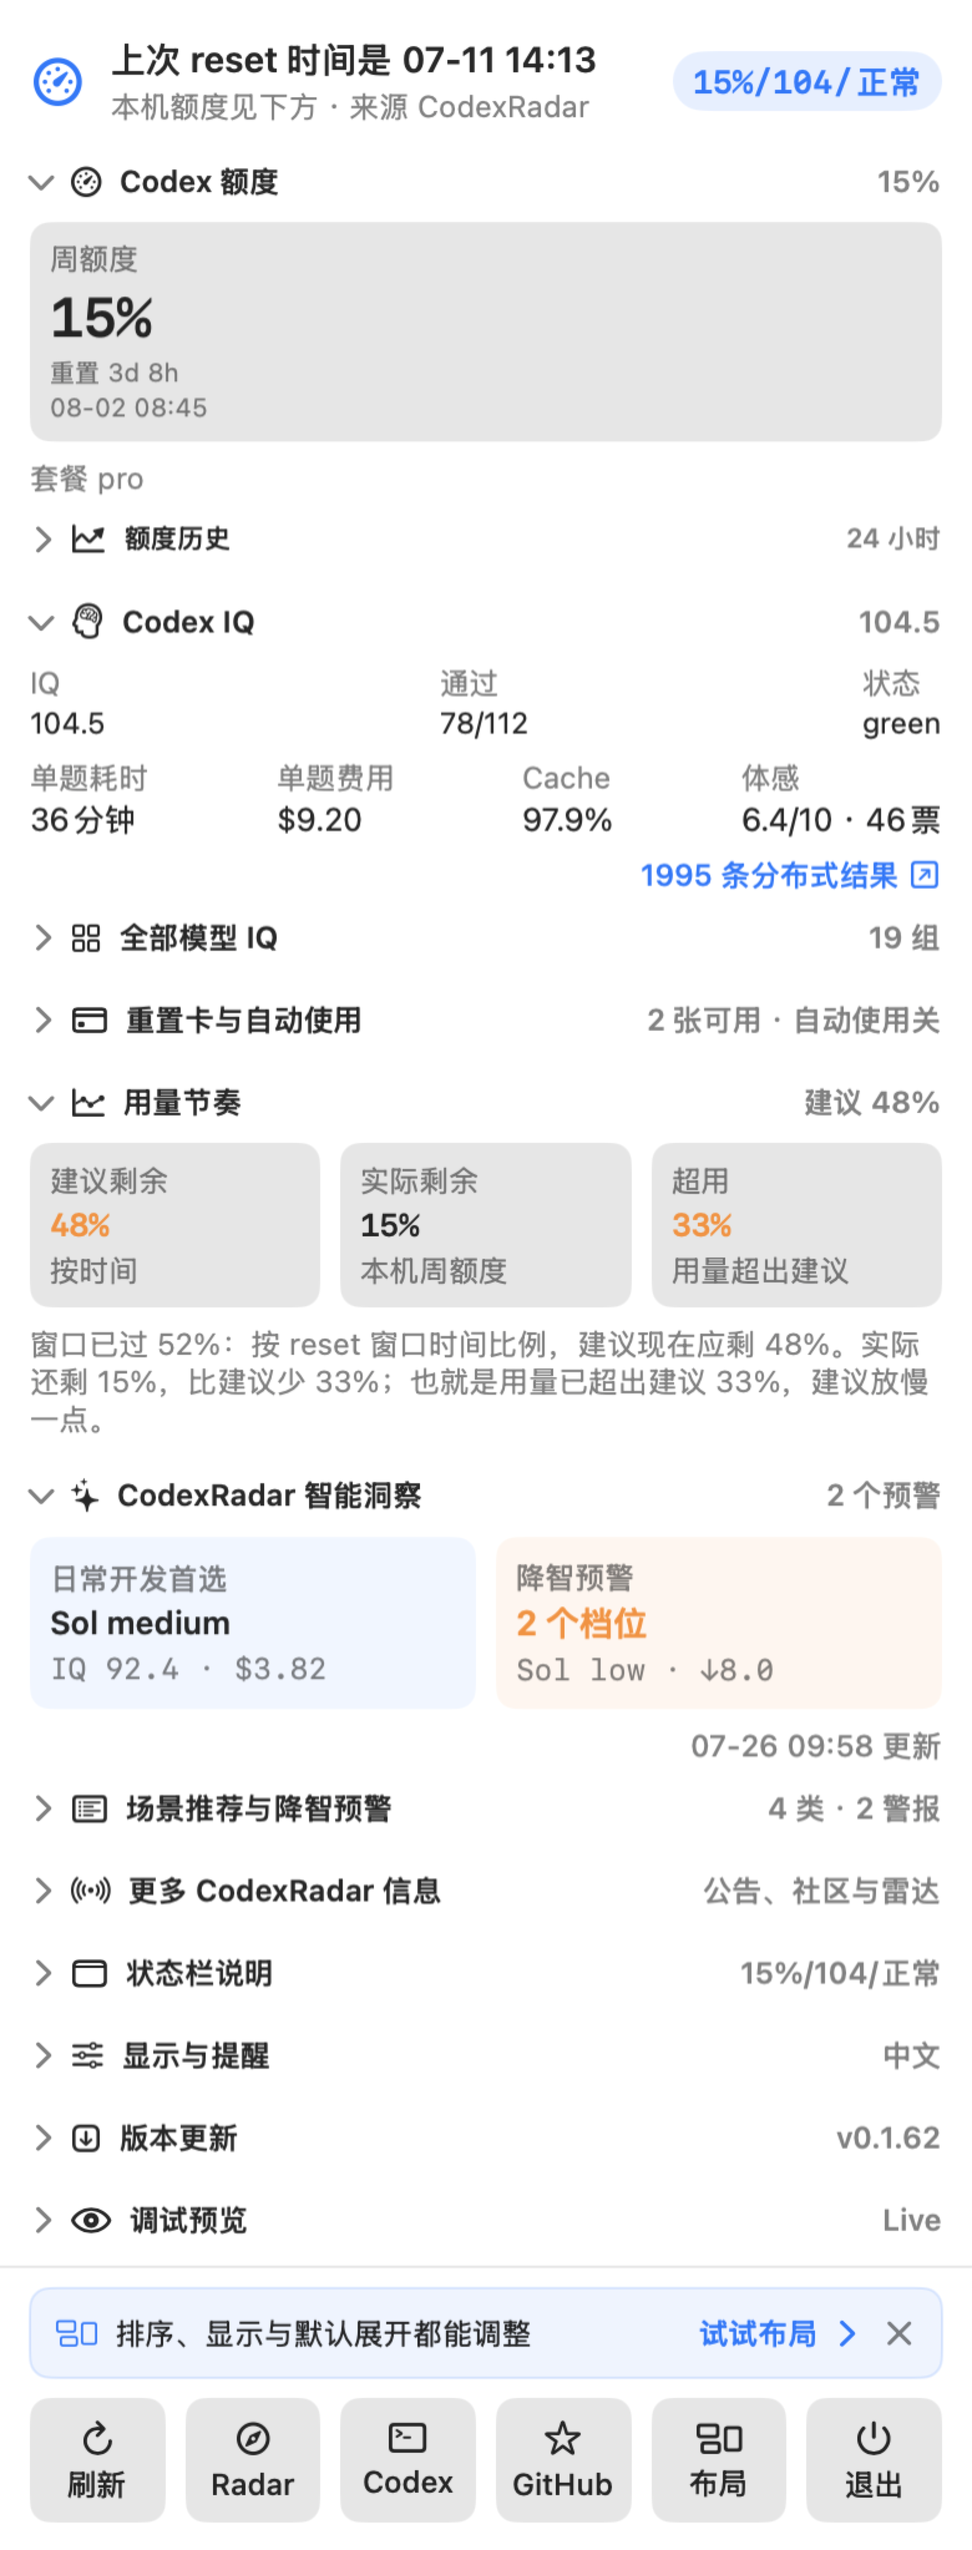
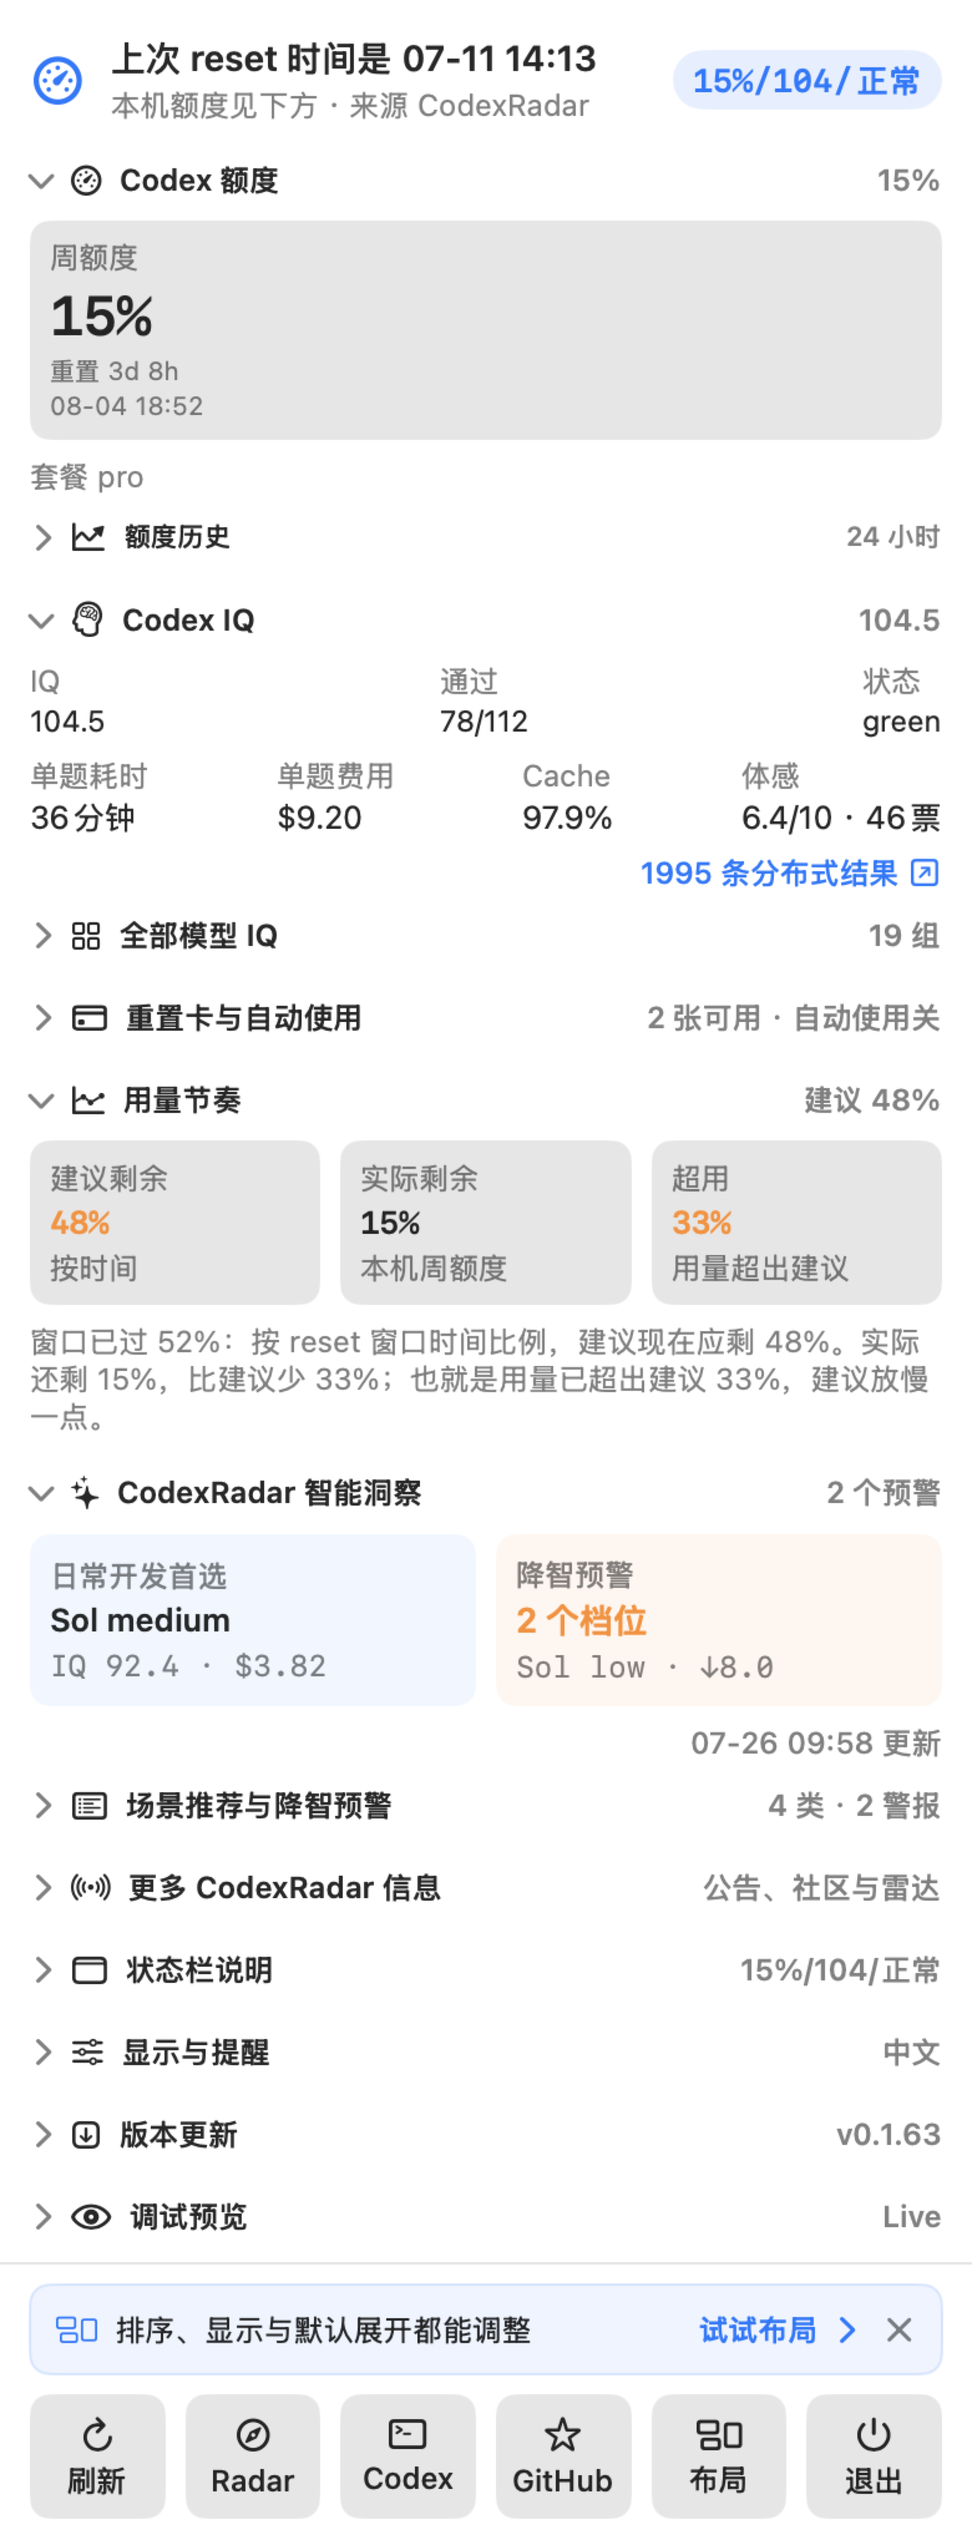
fix: restore Reset Radar card parsing
Prompt-Id: 88

diff --git a/Sources/CodexRadarSentinel/SentinelStore.swift b/Sources/CodexRadarSentinel/SentinelStore.swift
@@ -1760,27 +1760,22 @@ final class SentinelStore: NSObject, ObservableObject {
             "CodexRadar 当前公开重置研判、7d 额度、Fast 实测与分布式社区 Model IQ。",
             "CodexRadar currently publishes reset judgement, 7d quota, Fast benchmarks, and distributed community Model IQ."
         )
-        let resetUpdated = language.text("7月17日14:38研判", "Jul 17 14:38")
-        let resetTitle = language.text("本轮硬重置已落地，进入冷却", "Latest hard reset complete; cooldown")
+        let resetUpdated = language.text(
+            "事件更新 7月29日 13:42",
+            "Event updated Jul 29 13:42"
+        )
+        let resetTitle = language.text("官方源快车", "Official-source fast lane")
         let cardLabel = language.text("发重置卡", "Reset card")
-        let cardLevel = language.text("低 · 本轮不是发卡", "Low · not a card rollout")
+        let cardLevel = language.text("未宣布", "Not announced")
         let cardSummary = language.text(
-            "9M 节点直接把周额度恢复到 100%，并未新增可自行兑换的 banked reset；其后也没有新的官方发卡信号。",
-            "The 9M milestone restored weekly quota directly to 100% without issuing redeemable banked resets; no newer official card signal followed."
+            "本轮是直接重置 — 本轮官方信号指向直接用量重置，不代表新增可储存的 banked reset。",
+            "This round is a direct reset — the official signal points to quota restoration, not a new banked reset."
         )
         let hardResetLabel = language.text("硬重置", "Hard reset")
-        let hardResetLevel = language.text("低 · 9M 重置已落地", "Low · 9M reset complete")
+        let hardResetLevel = language.text("已落地", "Completed")
         let hardResetSummary = language.text(
-            "Tibo 已宣布并完成本轮 Codex 与 ChatGPT Work 周额度硬重置；随后未出现新的重置承诺，下一轮进入冷却。",
-            "Tibo announced and completed this Codex and ChatGPT Work weekly quota hard reset; no newer reset commitment followed, so the next round is in cooldown."
-        )
-        let reasonOne = language.text(
-            "9M 重置的机制是直接恢复周额度到 100%，不是新增可兑换卡；已有多名用户报告额度恢复。",
-            "The 9M reset restored weekly quota directly to 100% instead of issuing redeemable cards; multiple users reported recovery."
-        )
-        let reasonTwo = language.text(
-            "连续两次里程碑重置已经落地，相关服务事故也已解决，短期内再次重置的必要性下降。",
-            "Two milestone resets have landed and related service incidents are resolved, reducing the near-term need for another reset."
+            "官方重置完成 — Tibo 确认本轮直接用量重置已完成；当前没有开启的速蹬窗口。",
+            "Official reset complete — Tibo confirmed that this direct quota reset finished; no speed window is open."
         )
         let communityTitle = language.text("重置卡过期时间自查", "Reset credit expiry check")
         let communityPrompt = language.text(
@@ -1839,10 +1834,7 @@ final class SentinelStore: NSObject, ObservableObject {
               { "label": "\(cardLabel)", "level": "\(cardLevel)", "summary": "\(cardSummary)" },
               { "label": "\(hardResetLabel)", "level": "\(hardResetLevel)", "summary": "\(hardResetSummary)" }
             ],
-            "reasons": [
-              "\(reasonOne)",
-              "\(reasonTwo)"
-            ]
+            "reasons": []
           },
           "community_knowledge": {
             "title": "\(communityTitle)",

diff --git a/Tests/CodexRadarCoreTests/RadarModelTests.swift b/Tests/CodexRadarCoreTests/RadarModelTests.swift
@@ -434,6 +434,30 @@ final class RadarModelTests: XCTestCase {
         XCTAssertTrue(current.communityKnowledge?.prompt?.contains("不要打印 access_token") == true)
     }
 
+    func testBuildsResetJudgementFromCurrentHomepageCardMarkup() throws {
+        let current = try CodexRadarClient.currentFromHomepageHTML(
+            currentResetJudgementHTML,
+            checkedAt: Date(timeIntervalSince1970: 1_785_438_400)
+        )
+
+        XCTAssertEqual(current.resetJudgement?.updatedLabel, "事件更新 7月29日 13:42")
+        XCTAssertEqual(current.resetJudgement?.title, "官方源快车")
+        XCTAssertEqual(current.resetJudgement?.cards.count, 2)
+        XCTAssertEqual(current.resetJudgement?.cards.first?.label, "发重置卡")
+        XCTAssertEqual(current.resetJudgement?.cards.first?.level, "未宣布")
+        XCTAssertEqual(
+            current.resetJudgement?.cards.first?.summary,
+            "本轮是直接重置 — 本轮官方信号指向直接用量重置，不代表新增可储存的 banked reset。"
+        )
+        XCTAssertEqual(current.resetJudgement?.cards.last?.label, "硬重置")
+        XCTAssertEqual(current.resetJudgement?.cards.last?.level, "已落地")
+        XCTAssertEqual(
+            current.resetJudgement?.cards.last?.summary,
+            "官方重置完成 — 7月29日 12:09，Tibo 确认直接用量重置已完成；当前没有开启的速蹬窗口。"
+        )
+        XCTAssertTrue(current.resetJudgement?.reasons.isEmpty == true)
+    }
+
     func testBuildsDistributedModelIQFromHomepageHTML() throws {
         let html = """
         <html><body>
@@ -733,6 +757,43 @@ private let homepageHTML = """
 <title>6月13日 GPT-5.5 xhigh: IQ指数 87.5, 7/12, 费用 $42.41, 耗时 170分钟, cache命中率 94.5%</title>
 <title>6月14日 GPT-5.4 xhigh: IQ指数 75.0, 6/12, 费用 $21.33, 耗时 206分钟, cache命中率 95.7%</title>
 <title>6月14日 GPT-5.5 xhigh: IQ指数 62.5, 5/12, 费用 $37.59, 耗时 183分钟, cache命中率 94.3%</title>
+</svg>
+</body>
+</html>
+"""
+
+private let currentResetJudgementHTML = """
+<!doctype html>
+<html>
+<body>
+<section class="reset-judgement" aria-label="重置雷达">
+  <div class="reset-judgement-head">
+    <div>
+      <h2>重置雷达 <em>事件更新 7月29日 13:42</em></h2>
+    </div>
+    <strong>官方源快车</strong>
+  </div>
+  <div class="reset-judgement-grid">
+    <article class="reset-judgement-card" data-reset-track="banked_reset" data-reset-track-state="not_announced">
+      <div class="reset-judgement-card-head">
+        <span>发重置卡</span>
+        <em class="reset-judgement-state">未宣布</em>
+      </div>
+      <strong>本轮是直接重置</strong>
+      <p>本轮官方信号指向直接用量重置，不代表新增可储存的 banked reset。</p>
+    </article>
+    <article class="reset-judgement-card" data-reset-track="hard_reset" data-reset-track-state="completed">
+      <div class="reset-judgement-card-head">
+        <span>硬重置</span>
+        <em class="reset-judgement-state">已落地</em>
+      </div>
+      <strong>官方重置完成</strong>
+      <p>7月29日 12:09，Tibo 确认直接用量重置已完成；当前没有开启的速蹬窗口。</p>
+    </article>
+  </div>
+</section>
+<svg>
+  <title>7月29日 GPT-5.6 Sol max: IQ指数 103.1, 77/112, 费用 $9.63, 耗时 33分钟, cache命中率 97.5%</title>
 </svg>
 </body>
 </html>

diff --git a/Sources/CodexRadarCore/CodexRadarClient.swift b/Sources/CodexRadarCore/CodexRadarClient.swift
@@ -413,13 +413,42 @@ public struct CodexRadarClient {
         let title = firstCapture(#"<div\s+class="reset-judgement-head">.*?<strong>(.*?)</strong>"#, in: section)
         let updatedLabel = firstCapture(#"<h2>.*?<em>(.*?)</em>.*?</h2>"#, in: section)
         let cards = allMatches(
-            #"<article\s+class="reset-judgement-card[^"]*">\s*<span>(.*?)</span>\s*<strong>(.*?)</strong>\s*<p>(.*?)</p>"#,
+            #"<article\s+class="[^"]*reset-judgement-card[^"]*"[^>]*>(.*?)</article>"#,
             in: section
-        ).map { groups in
-            [
-                "label": cleanHTMLText(groups[safe: 0]),
-                "level": cleanHTMLText(groups[safe: 1]),
-                "summary": cleanHTMLText(groups[safe: 2])
+        ).compactMap { groups -> [String: String]? in
+            guard let card = groups.first else {
+                return nil
+            }
+            let label = cleanHTMLText(firstCapture(
+                #"<span(?:\s+[^>]*)?>(.*?)</span>"#,
+                in: card
+            ))
+            let state = cleanHTMLText(firstCapture(
+                #"<em\s+class="[^"]*reset-judgement-state[^"]*"[^>]*>(.*?)</em>"#,
+                in: card
+            ))
+            let headline = cleanHTMLText(firstCapture(
+                #"<strong(?:\s+[^>]*)?>(.*?)</strong>"#,
+                in: card
+            ))
+            let detail = cleanHTMLText(firstCapture(
+                #"<p(?:\s+[^>]*)?>(.*?)</p>"#,
+                in: card
+            ))
+            // Current cards split the state badge from the headline. Older
+            // cards use the headline itself as the level, so normalize both
+            // layouts into the existing level and summary fields.
+            let level = state.isEmpty ? headline : state
+            let summary = state.isEmpty
+                ? detail
+                : [headline, detail].filter { !$0.isEmpty }.joined(separator: " — ")
+            guard !label.isEmpty, !level.isEmpty, !summary.isEmpty else {
+                return nil
+            }
+            return [
+                "label": label,
+                "level": level,
+                "summary": summary
             ]
         }
         guard !cards.isEmpty else {

diff --git a/Tests/CodexRadarCoreTests/LiveCodexRadarContractTests.swift b/Tests/CodexRadarCoreTests/LiveCodexRadarContractTests.swift
@@ -21,7 +21,7 @@ final class LiveCodexRadarContractTests: XCTestCase {
             $0.snapshot.model == "gpt-5.6-sol" && $0.snapshot.reasoningEffort == "ultra"
         } == true)
         XCTAssertGreaterThanOrEqual(current.modelIQ?.quotaRadar?.rows.count ?? 0, 1)
-        XCTAssertGreaterThanOrEqual(current.resetJudgement?.cards.count ?? 0, 1)
+        try assertValidResetJudgement(current.resetJudgement)
         XCTAssertNotNil(current.communityKnowledge?.prompt)
         XCTAssertGreaterThanOrEqual(current.communityKnowledges.count, 1)
         try assertValidSiteAnnouncementIfPresent(current.siteAnnouncement)
@@ -99,7 +99,7 @@ final class LiveCodexRadarContractTests: XCTestCase {
             homepageCurrent.modelIQ?.dataSource?.validCells,
             homepageValidTasks.reduce(0, +)
         )
-        XCTAssertGreaterThanOrEqual(homepageCurrent.resetJudgement?.cards.count ?? 0, 1)
+        try assertValidResetJudgement(homepageCurrent.resetJudgement)
         XCTAssertGreaterThanOrEqual(homepageCurrent.communityKnowledges.count, 1)
         try assertValidSiteAnnouncementIfPresent(homepageCurrent.siteAnnouncement)
         XCTAssertGreaterThanOrEqual(homepageCurrent.fastRadar?.rows.count ?? 0, 1)
@@ -114,5 +114,17 @@ final class LiveCodexRadarContractTests: XCTestCase {
         let message = try XCTUnwrap(announcement.message)
             .trimmingCharacters(in: .whitespacesAndNewlines)
         XCTAssertFalse(message.isEmpty)
+    }
+
+    private func assertValidResetJudgement(
+        _ judgement: ResetJudgement?
+    ) throws {
+        let judgement = try XCTUnwrap(judgement)
+        XCTAssertFalse(judgement.cards.isEmpty)
+        XCTAssertTrue(judgement.cards.allSatisfy { card in
+            card.label?.trimmingCharacters(in: .whitespacesAndNewlines).isEmpty == false
+                && card.level?.trimmingCharacters(in: .whitespacesAndNewlines).isEmpty == false
+                && card.summary?.trimmingCharacters(in: .whitespacesAndNewlines).isEmpty == false
+        })
     }
 }

diff --git a/Sources/CodexRadarSentinel/DashboardMenuView.swift b/Sources/CodexRadarSentinel/DashboardMenuView.swift
@@ -2605,10 +2605,17 @@ struct DashboardMenuView: View {
 
     private func resetJudgementLevelColor(_ level: String?) -> Color {
         let normalized = level?.lowercased() ?? ""
-        if normalized.contains("高") || normalized.contains("high") {
+        if normalized.contains("高")
+            || normalized.contains("high")
+            || normalized.contains("已落地")
+            || normalized.contains("已完成")
+            || normalized.contains("completed") {
             return .green
         }
-        if normalized.contains("低") || normalized.contains("low") {
+        if normalized.contains("低")
+            || normalized.contains("low")
+            || normalized.contains("未宣布")
+            || normalized.contains("not announced") {
             return .orange
         }
         return .accentColor

diff --git a/Sources/CodexRadarCore/AppConstants.swift b/Sources/CodexRadarCore/AppConstants.swift
@@ -4,7 +4,7 @@ public enum AppConstants {
     public static let appName = "Codex Radar Sentinel"
     public static let clientName = "codex-radar-sentinel"
     public static let bundleIdentifier = "com.codexradar.sentinel"
-    public static let appVersion = "0.1.62"
+    public static let appVersion = "0.1.63"
 
     public static let codexLimitID = "codex"
     public static let weeklyWindowMinutes = 10_080.0

diff --git a/README.en.md b/README.en.md
@@ -25,6 +25,12 @@ You can also install manually from [GitHub Releases](https://github.com/WineChor
 
 ## News
 
+### v0.1.63: Restore the current Reset Radar state
+
+- Supports CodexRadar's latest Reset Radar card structure, restoring the current state, conclusion, and explanation for both reset-credit and hard-reset paths.
+- Both old and new page layouts remain compatible, including the event timestamp and radar-source summary when a card adds its own state badge.
+- Live contract checks now validate each Reset Radar card's name, state, and explanation so a future markup change cannot silently hide the entire section.
+
 ### v0.1.62: See quota changes with a calmer Layout
 
 - `Quota history` keeps local 24-hour, 7-day, and 30-day weekly-quota balance curves. Hover or drag to inspect real changes, reset jumps, and data gaps point by point.
@@ -37,15 +43,10 @@ You can also install manually from [GitHub Releases](https://github.com/WineChor
 - Opening Layout from either entry point dismisses the tip. It can also be closed immediately, and that choice persists across app restarts.
 - The tip appears only once and stays out of the top content area, preserving the priority of the current result, critical alerts, and everyday data.
 
-### v0.1.60: Set defaults for nested details
-
-- The layout editor now lists collapsible details beneath their parent sections, including `All model IQ` and `Recommendations & alerts`, with their own default-open controls.
-- Nested controls and the disclosures in the main menu share the same preference, which persists when the menu reopens and after an app restart.
-- `Restore default layout` resets both levels, and future nested disclosures can use the same consistent hierarchy.
-
 <details>
 <summary><strong>Earlier releases</strong> — expand for previous product milestones</summary>
 
+- **v0.1.60**: let Layout set default-open behavior for nested items such as `All model IQ`, with preferences preserved across restarts.
 - **v0.1.59**: added persistent menu ordering and default-open preferences while keeping current results, critical alerts, and recovery paths visible.
 - **v0.1.58**: kept multi-model IQ pass counts intact across M, L, and XL and made the SHA256 manifest directly verifiable from the download directory.
 - **v0.1.57**: moved quota and Codex IQ forward, grouped low-frequency information behind clear disclosures, and kept critical alerts visible.
@@ -229,14 +230,14 @@ CODEX_RADAR_CODEX_PATH=/path/to/codex swift run CodexRadarSentinel
 ```bash
 swift test
 swift build -c release
-./scripts/check_release_readiness.sh 0.1.62
+./scripts/check_release_readiness.sh 0.1.63
 ```
 
 Build release assets:
 
 ```bash
 ./scripts/build_app.sh
-./scripts/package_release.sh 0.1.62
+./scripts/package_release.sh 0.1.63
 ```
 
 Update the menu-bar and full-menu screenshots:

diff --git a/README.md b/README.md
@@ -25,6 +25,12 @@ https://github.com/WineChord/codex-radar/releases/latest
 
 ## News / 最新功能
 
+### v0.1.63：恢复新版重置雷达状态
+
+- 兼容 CodexRadar 最新的重置雷达卡片结构，菜单重新显示“发重置卡”和“硬重置”的当前状态、结论与说明。
+- 新旧网页结构继续同时支持；事件更新时间和雷达来源摘要不会因卡片内部新增状态标签而丢失。
+- 在线契约检查会逐项确认重置雷达卡片的名称、状态和说明，避免以后结构变化时静默隐藏整个模块。
+
 ### v0.1.62：额度变化看得见，布局更清爽
 
 - “额度历史”在本机保留 24 小时、7 天和 30 天周额度余量曲线；悬停或拖动即可逐点查看真实变化、重置跳变和数据断档。
@@ -37,15 +43,10 @@ https://github.com/WineChord/codex-radar/releases/latest
 - 从提示或底部“布局”进入后，提示不会重复出现；也可以直接关闭，选择会在应用重启后保留。
 - 提示只出现一次且不占用顶部空间，当前结论、关键告警和常用数据的优先级保持不变。
 
-### v0.1.60：模块内子项也能预设展开
-
-- 布局编辑器会在所属模块下方列出可折叠子项；现在可以直接设置“全部模型 IQ”和“场景推荐与降智预警”是否默认展开。
-- 子项开关与主菜单中的实际展开状态使用同一份偏好，重新打开菜单和重启应用后都会保留。
-- “恢复默认布局”会同时重置顶层模块与子项；以后新增的同类子项也会沿用一致的分层入口。
-
 <details>
 <summary><strong>历史版本</strong> — 展开查看更早的产品里程碑</summary>
 
+- **v0.1.60**：布局编辑器可设置“全部模型 IQ”等模块内子项是否默认展开，并在重启后保留。
 - **v0.1.59**：支持调整菜单模块顺序和默认展开状态，同时保持当前结论、关键告警与恢复入口可见。
 - **v0.1.58**：让多模型 IQ 的通过数在 M/L/XL 字号下保持完整，并让 SHA256 清单可在下载目录直接校验。
 - **v0.1.57**：将核心额度与 Codex IQ 前置，把低频信息统一收进清晰的折叠入口，同时保持关键告警可见。
@@ -229,14 +230,14 @@ CODEX_RADAR_CODEX_PATH=/path/to/codex swift run CodexRadarSentinel
 ```bash
 swift test
 swift build -c release
-./scripts/check_release_readiness.sh 0.1.62
+./scripts/check_release_readiness.sh 0.1.63
 ```
 
 构建发布包：
 
 ```bash
 ./scripts/build_app.sh
-./scripts/package_release.sh 0.1.62
+./scripts/package_release.sh 0.1.63
 ```
 
 更新中英文状态栏与菜单截图：
